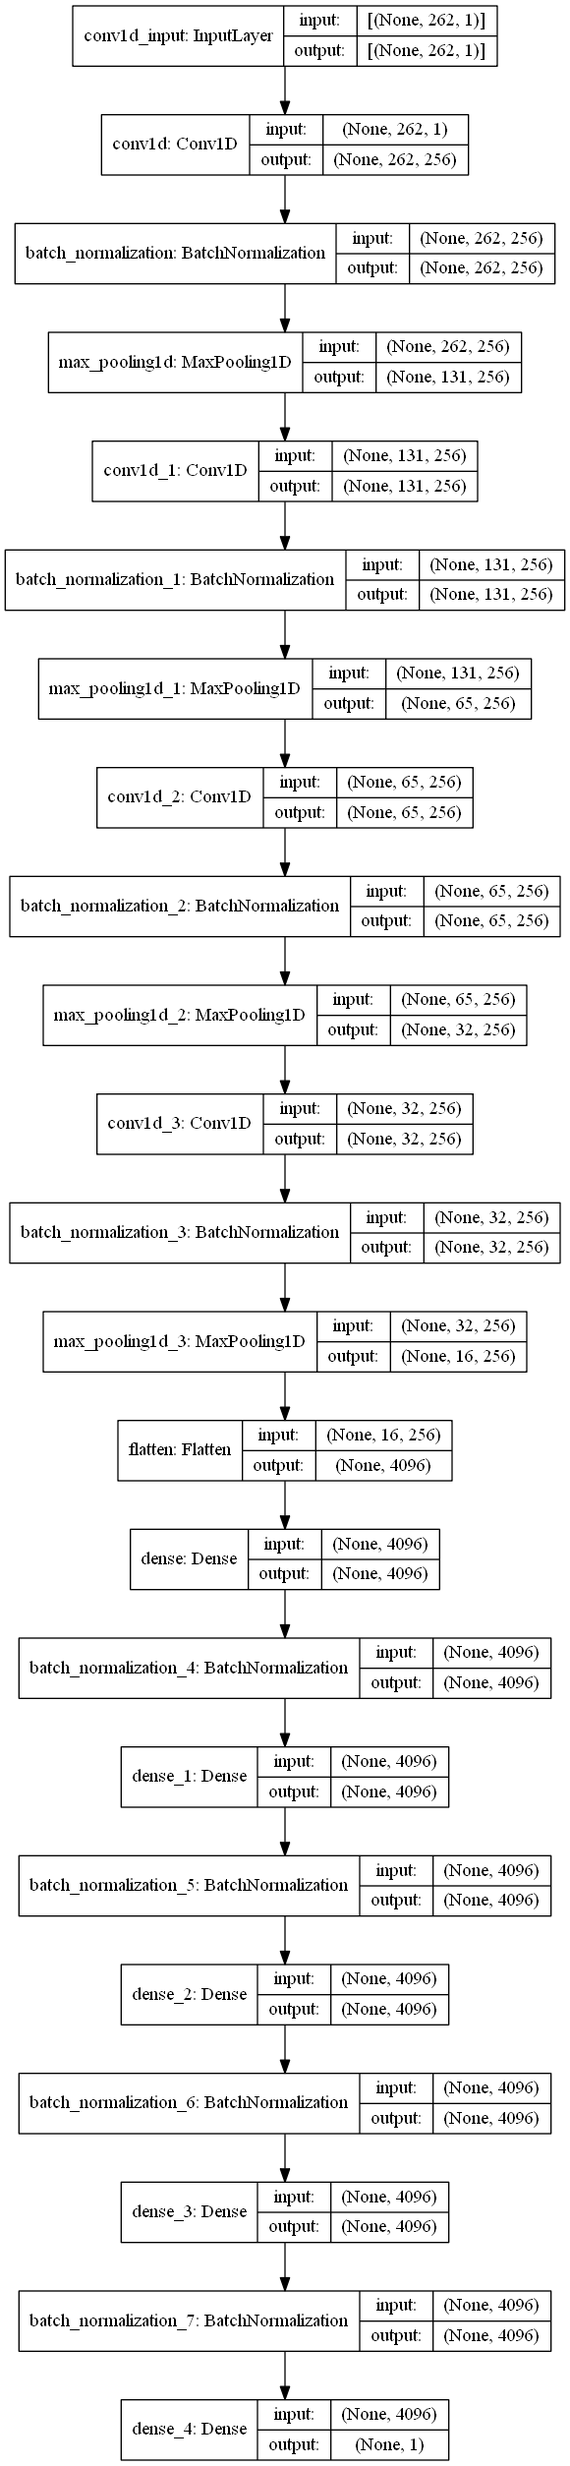
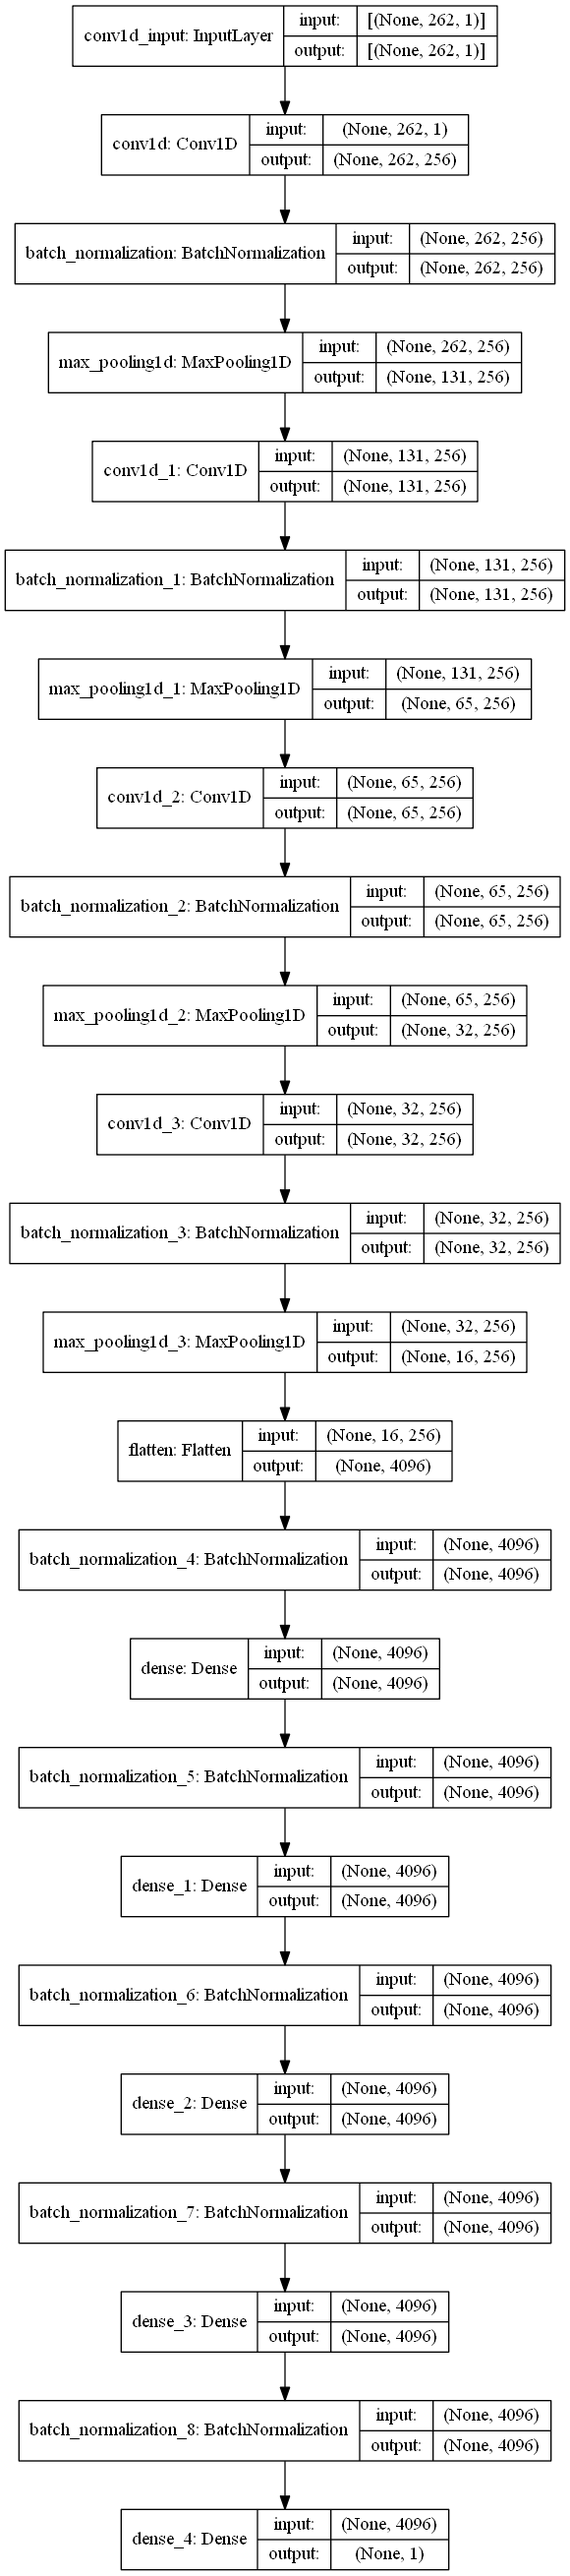
update

Changed region(s): [[0.0, 0.0, 0.9931, 0.9952], [0.031, 0.6531, 0.1241, 0.7153]]

diff --git a/custom_step_model.py b/custom_step_model.py
@@ -25,7 +25,7 @@ def setup_gpu():
 
 class StepModel():
     def __init__(self) -> None:
-        self.epochs = 4000
+        self.epochs = 2000
         self.learning_rate = 1.46e-4
         self.batch_size = 32
         self.input_size = None
@@ -76,6 +76,7 @@ class StepModel():
 
         train_x, val_x, test_x = self.scale_data(train_x, val_x, test_x)
         self.input_size = len(train_x[0])
+
         train_x = train_x.reshape(-1, self.input_size, 1)
         val_x = val_x.reshape(-1, self.input_size, 1)
         test_x = test_x.reshape(-1, self.input_size, 1)
@@ -99,27 +100,19 @@ class StepModel():
     def build_cnn_model(self):
         print("==== building MODEL ====")
         model = Sequential()
-        model.add(Conv1D(filters=256, kernel_size=4, padding='same', input_shape=[self.input_size,1]))
-        model.add(BN())
+        model.add(Conv1D(filters=256, kernel_size=4, padding='same', activation='swish', input_shape=[self.input_size,1]))
         model.add(MaxPooling1D(pool_size=2))
-        model.add(Conv1D(filters=256, kernel_size=4, padding='same'))
-        model.add(BN())
+        model.add(Conv1D(filters=256, kernel_size=4, padding='same', activation='swish'))
         model.add(MaxPooling1D(pool_size=2))
-        model.add(Conv1D(filters=256, kernel_size=4, padding='same'))
-        model.add(BN())
+        model.add(Conv1D(filters=256, kernel_size=4, padding='same', activation='swish'))
         model.add(MaxPooling1D(pool_size=2))
-        model.add(Conv1D(filters=256, kernel_size=4, padding='same'))
-        model.add(BN())
+        model.add(Conv1D(filters=256, kernel_size=4, padding='same', activation='swish'))
         model.add(MaxPooling1D(pool_size=2))
         model.add(Flatten())
         model.add(Dense(4096, activation='swish'))
-        model.add(BN())
         model.add(Dense(4096, activation='swish'))
-        model.add(BN())
         model.add(Dense(4096, activation='swish'))
-        model.add(BN())
         model.add(Dense(4096, activation='swish'))
-        model.add(BN())
         model.add(Dense(1, activation=None))
         model.summary()
 
@@ -136,9 +129,10 @@ class StepModel():
         self.val_acc_metric = MSE_metrics()
     
     def train(self):
+        start_time = time.time()
         for epoch in range(self.epochs):
             print("epoch " , epoch, end=" -> ")
-            start_time = time.time()
+            epoch_time = time.time()
             
             # TRAIN LOOP with BATCH
             for step, (x_batch_train, y_batch_train) in enumerate(self.train_dataset):
@@ -146,9 +140,9 @@ class StepModel():
                     logits = self.l_step_model(x_batch_train, training=True)
                     l_step_loss_value = self.l_step_loss(y_batch_train, logits)
 
-                grads = tape.gradient(l_step_loss_value, self.l_step_model.trainable_weights)
+                grads = tape.gradient(l_step_loss_value, self.l_step_model.trainable_variables)
 
-                self.l_step_optimizer.apply_gradients(zip(grads, self.l_step_model.trainable_weights))
+                self.l_step_optimizer.apply_gradients(zip(grads, self.l_step_model.trainable_variables))
 
                 train_acc = self.train_acc_metric.update_state(y_batch_train, logits)
                 
@@ -167,7 +161,9 @@ class StepModel():
             self.val_acc_metric.reset_states()
             print("Validation acc: %.4f" % (float(val_acc),), end='\t')
 
-            print("Time taken: %.2fs" % (time.time() - start_time))
+            print("Time taken: %.2fs" % (time.time() - epoch_time))
+
+        print("Whole Time taken: %.2fs" % (time.time() - start_time))
 
     @tf.function
     def train_with_compile(self):

diff --git a/stride_model.py b/stride_model.py
@@ -64,19 +64,20 @@ def load_data(mode="loso"):
 
 def build_conv1_model(LR, INPUT_SIZE):
     model = Sequential()
-    model.add(Conv1D(filters=256, kernel_size=4, padding='same', input_shape=[INPUT_SIZE,1]))
+    model.add(Conv1D(filters=256, kernel_size=4, padding='same', activation='swish', input_shape=[INPUT_SIZE,1]))
     model.add(BN())
     model.add(MaxPooling1D(pool_size=2))
-    model.add(Conv1D(filters=256, kernel_size=4, padding='same'))
+    model.add(Conv1D(filters=256, kernel_size=4, padding='same', activation='swish'))
     model.add(BN())
     model.add(MaxPooling1D(pool_size=2))
-    model.add(Conv1D(filters=256, kernel_size=4, padding='same'))
+    model.add(Conv1D(filters=256, kernel_size=4, padding='same', activation='swish'))
     model.add(BN())
     model.add(MaxPooling1D(pool_size=2))
-    model.add(Conv1D(filters=256, kernel_size=4, padding='same'))
+    model.add(Conv1D(filters=256, kernel_size=4, padding='same', activation='swish'))
     model.add(BN())
     model.add(MaxPooling1D(pool_size=2))
     model.add(Flatten())
+    model.add(BN())
     model.add(Dense(4096, activation='swish'))
     model.add(BN())
     model.add(Dense(4096, activation='swish'))
